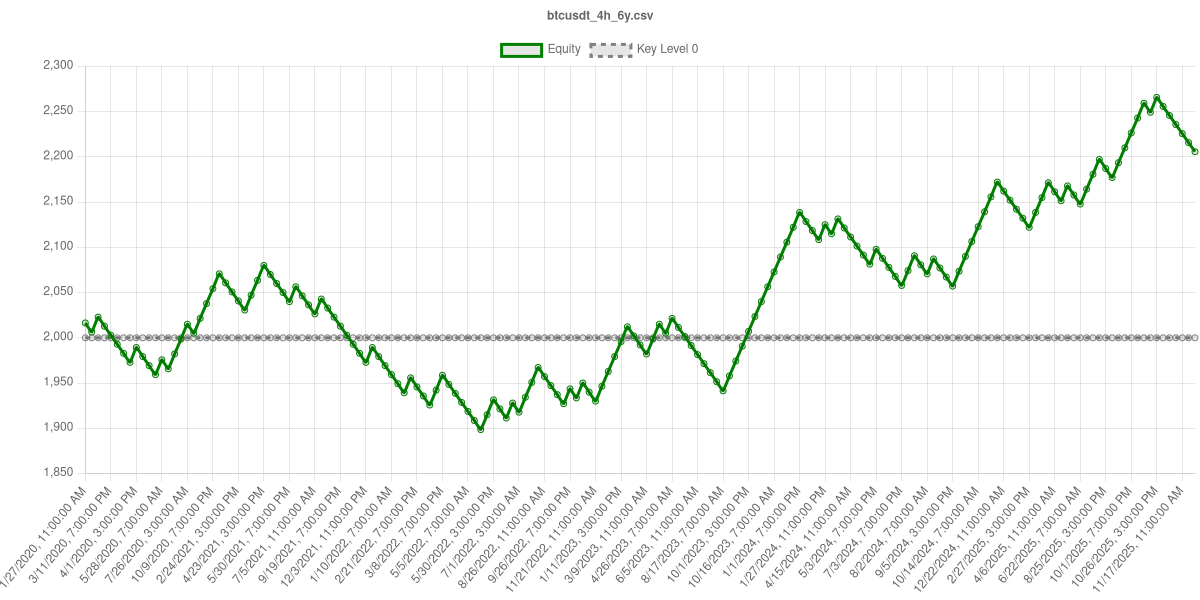
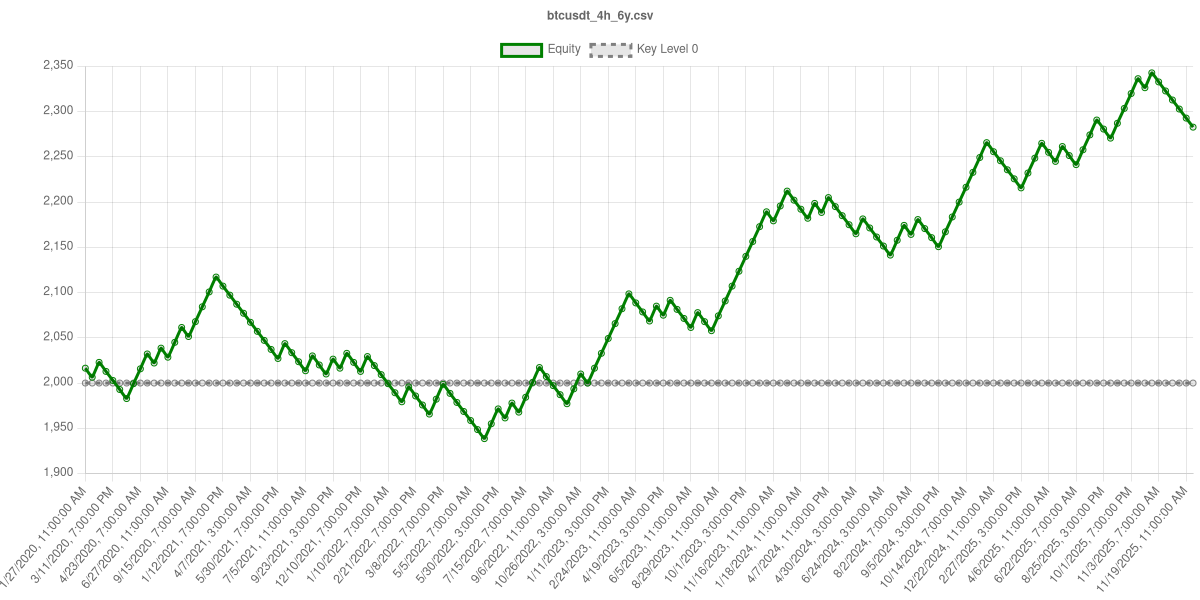
update

Changed region(s): [[0.0308, 0.12, 1.0, 0.78], [0.0308, 0.81, 0.9867, 0.99]]

diff --git a/backend/service-backtest/src/index.ts b/backend/service-backtest/src/index.ts
@@ -379,7 +379,7 @@ export class Backtester {
 
           if (lastHeikin && lastSma) {
             const rule1 = lastHeikin.close < 40;
-            const rule2 = lastHeikin.high > lastSma.value;
+            const rule2 = lastHeikin.close > lastSma.value;
 
             this.state.rule_values[3] = rule1 && rule2;
           }
